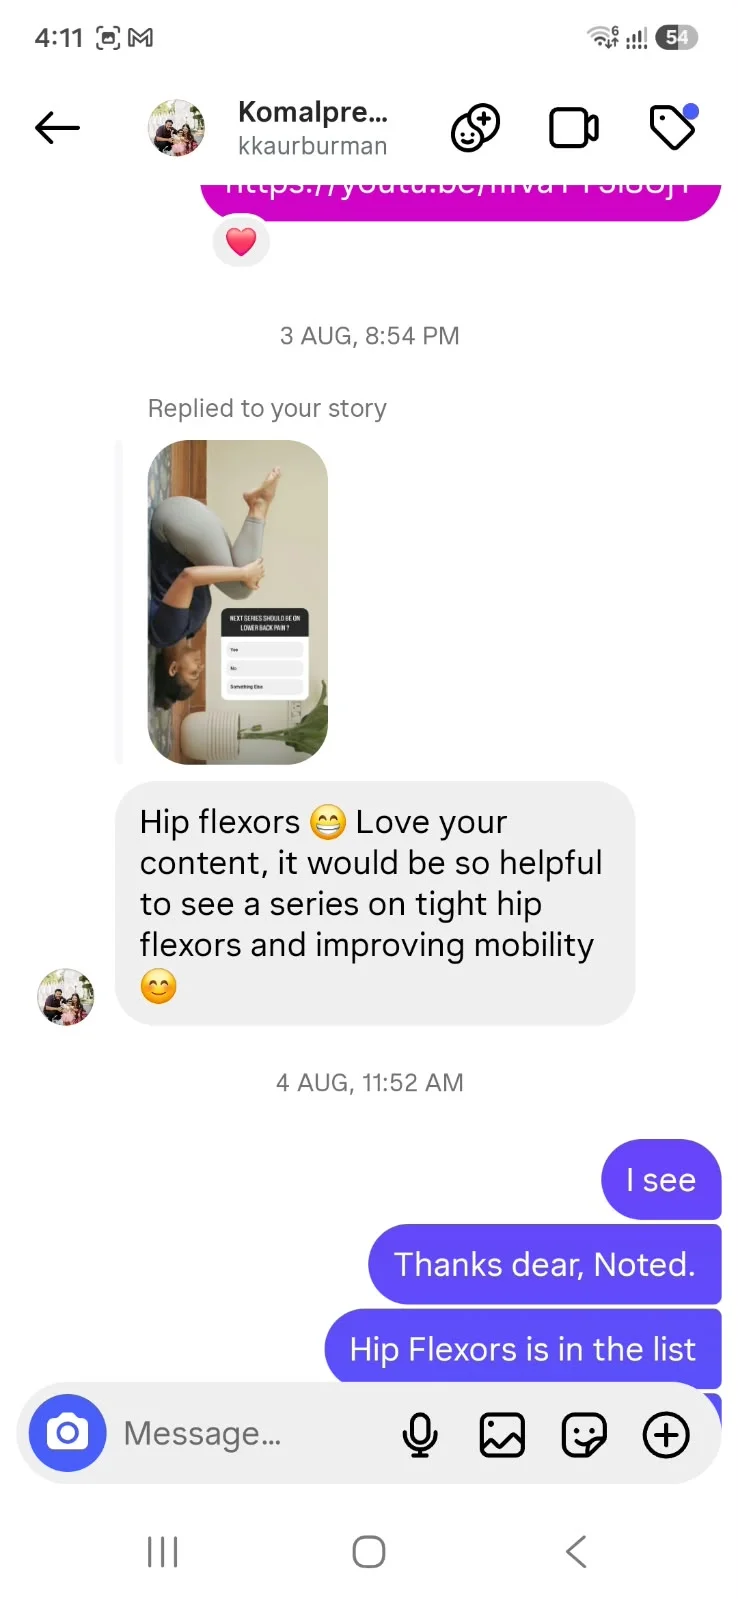
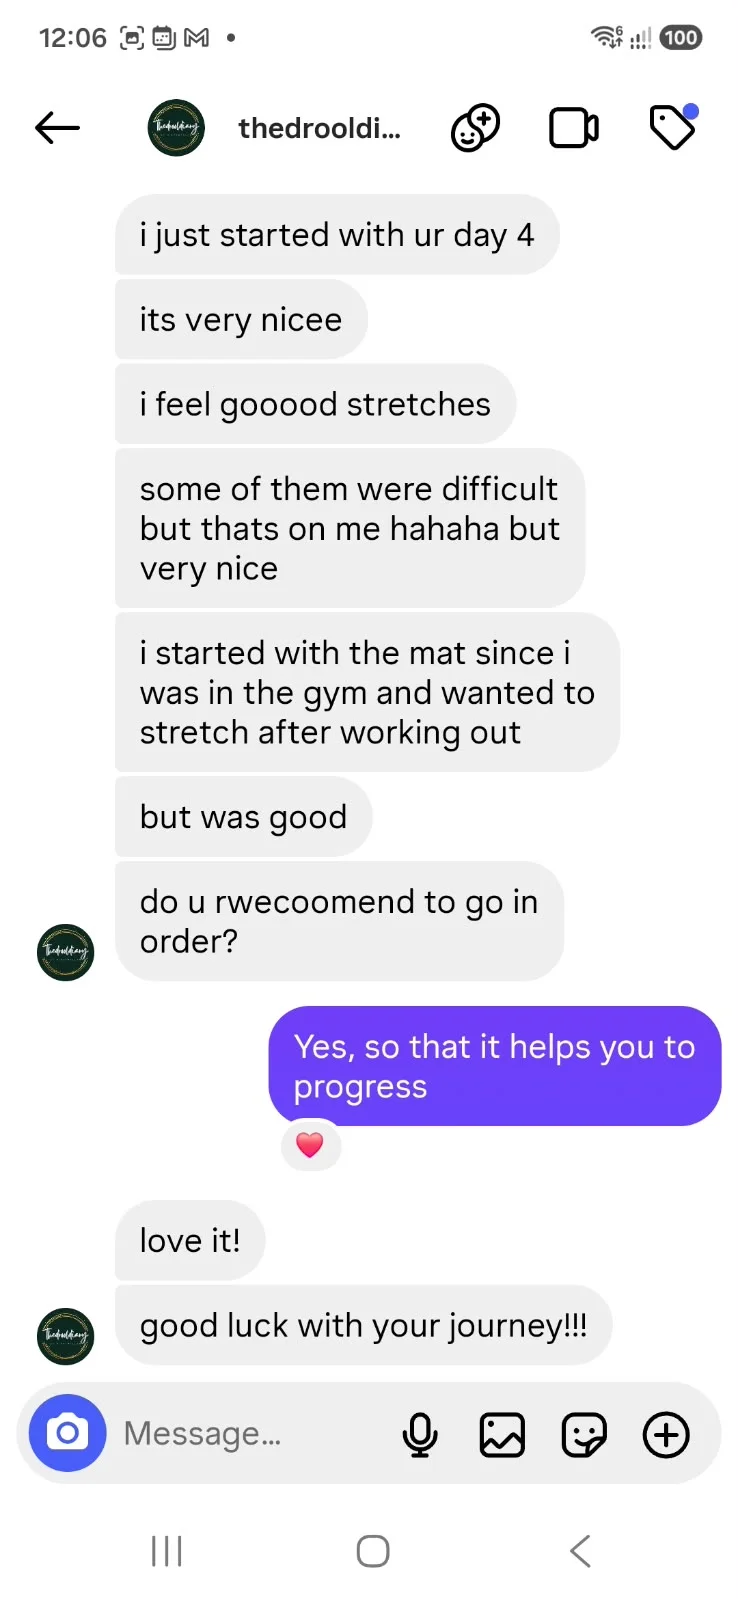
chore: added the feed back images

diff --git a/components/landing-page/instagram-feedback-swiper.tsx b/components/landing-page/instagram-feedback-swiper.tsx
@@ -4,6 +4,8 @@ import feedback1 from "@/assets/images/insta-feed-back/insta-feed-back-1.webp";
 import feedback2 from "@/assets/images/insta-feed-back/insta-feed-back-2.webp";
 import feedback3 from "@/assets/images/insta-feed-back/insta-feed-back-3.webp";
 import feedback4 from "@/assets/images/insta-feed-back/insta-feed-back-4.webp";
+import feedback5 from "@/assets/images/insta-feed-back/insta-feed-back-5.webp";
+import feedback6 from "@/assets/images/insta-feed-back/insta-feed-back-6.webp";
 import { ArrowLeft, ArrowRight } from "lucide-react";
 import Image from "next/image";
 import "swiper/css";
@@ -11,7 +13,7 @@ import "swiper/css/navigation";
 import { A11y, Navigation } from "swiper/modules";
 import { Swiper, SwiperSlide } from "swiper/react";
 
-const feedbackImages = [feedback1, feedback2, feedback3, feedback4];
+const feedbackImages = [feedback1, feedback2, feedback3, feedback4, feedback5, feedback6];
 
 export function InstagramFeedbackSwiper() {
   return (
@@ -21,7 +23,9 @@ export function InstagramFeedbackSwiper() {
           <div>
             <h2>Real practice. Real progress.</h2>
           </div>
-          <p className="text-justify">See how the Kratika Yoga community is making space for movement, breath and a practice that lasts.</p>
+          <p className="text-justify">
+            See how the Kratika Yoga community is making space for movement, breath and a practice that lasts.
+          </p>
         </div>
         <Swiper
           className="landing-instagram-feedback-swiper"
